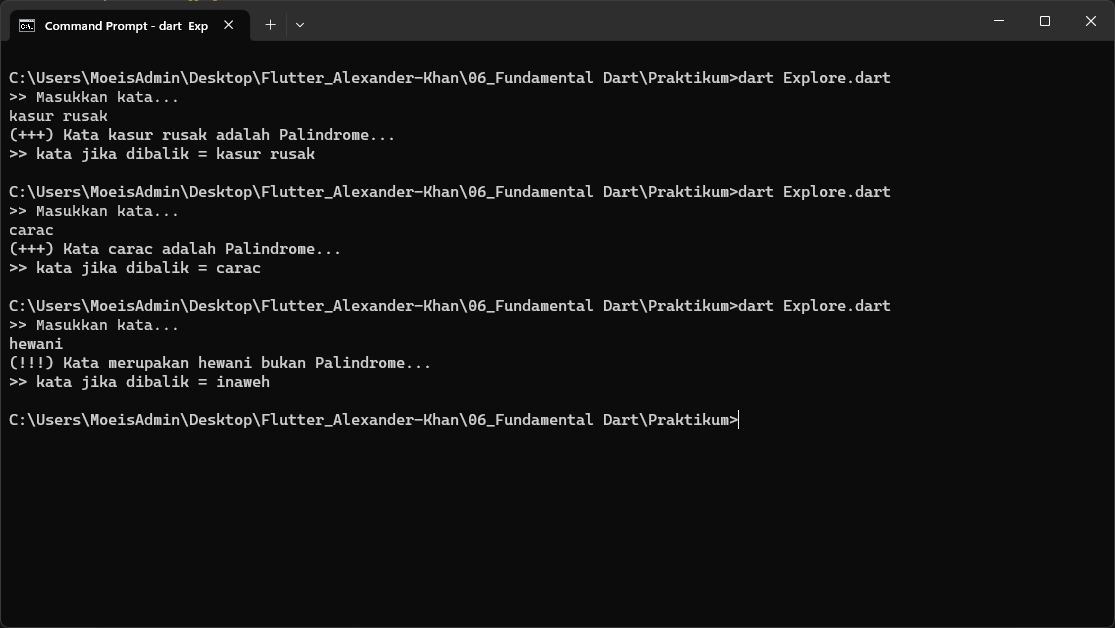
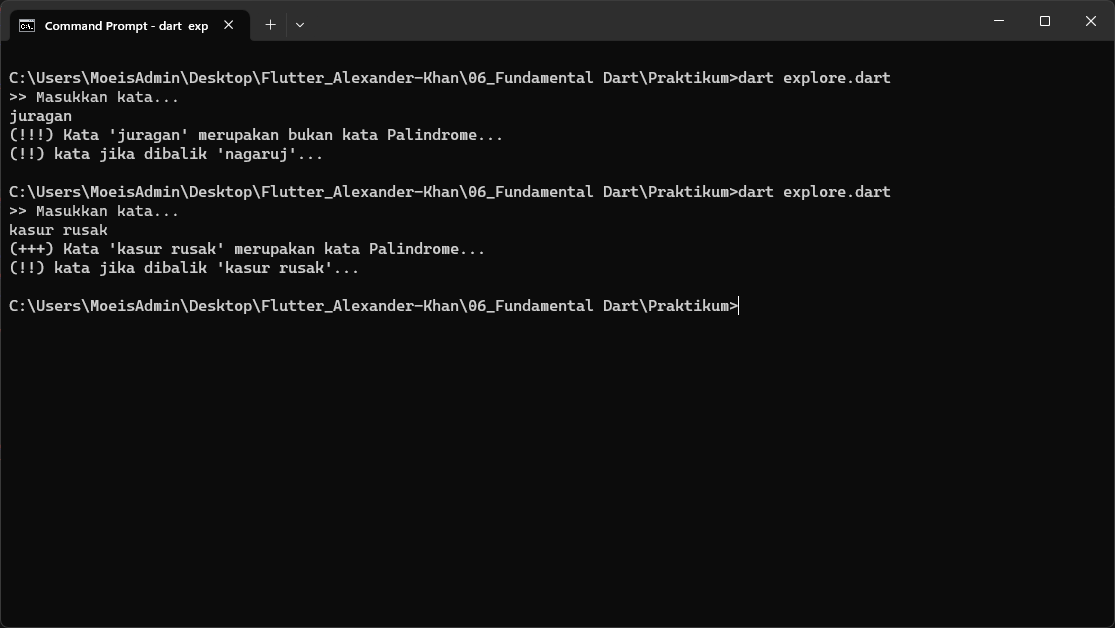
new section

diff --git a/06_Fundamental Dart/Praktikum/Explore.dart b/06_Fundamental Dart/Praktikum/Explore.dart
@@ -7,26 +7,33 @@ void main() {
 
 void palindrome() {
   print(">> Masukkan kata...");
-  var words = stdin.readLineSync();
-  var palindrome = words!.split('').reversed.join('');
+  String? words = stdin.readLineSync();
+  String? palindrome = words!.split('').reversed.join('');
 
   if (words == palindrome) {
-    print("(+++) Kata $words adalah Palindrome...");
+    print("(+++) Kata '$words' merupakan kata Palindrome...");
   } else {
-    print("(!!!) Kata merupakan $words bukan Palindrome...");
+    print("(!!!) Kata '$words' merupakan bukan kata Palindrome...");
   }
 
-  print(">> kata jika dibalik = $palindrome");
+  print("(!!) kata jika dibalik '$palindrome'...");
 }
 
 void factorNumber() {
-  print(">> Masukkan angka...");
+  print(">> Masukkan angka faktor...!!!");
   var number = int.parse(stdin.readLineSync()!);
 
-  print(">> Faktor dari $number adalah...");
+  while (number <= 0) {
+    print("(!!!) Angka tidak boleh negatif atau kosong...");
+    print(">> Masukkan angka faktor...!!!");
+    number = int.parse(stdin.readLineSync()!);
+  }
+
+  print("(O) Faktor dari $number adalah...");
   for (var i = 1; i <= number; i++) {
     if (number % i == 0) {
-      print(i);
+      print("> $i");
     }
   }
+
 }

diff --git a/06_Fundamental Dart/Praktikum/Exercise_2.dart b/06_Fundamental Dart/Praktikum/Exercise_2.dart
@@ -2,19 +2,19 @@ import 'dart:io';
 import 'dart:math';
 
 void main() {
-  // callBack();
-  tubeVolume();
+  callBack();
+  // tubeVolume();
 }
 
 void callBack() {
-  print(">> Masukkan nama Anda \t:... ");
+  print(">> Masukkan nama Lengkap Anda \t\t=...!!! ");
   String? x = stdin.readLineSync();
-  print(">> Masukkan Asal Kota Anda Tinggal \t:... ");
+  print(">> Masukkan Asal Kota Anda Tinggal \t=...!!! ");
   String? y = stdin.readLineSync();
-  print(">> Program Kelas yang sedang Anda Ikutin \t:...");
+  print(">> Program Kelas yang sedang Diikuti \t=...!!!");
   String? z = stdin.readLineSync();
 
-  print("\n(++) Halo, $x Selamat Datang di $y, di kelas program $z");
+  print("\n(++) Halo $x, Selamat Datang di $y, di kelas program $z");
 }
 
 void tubeVolume() {

diff --git a/06_Fundamental Dart/Praktikum/Exercise_1_Static.dart b/06_Fundamental Dart/Praktikum/Exercise_1_Static.dart
@@ -44,7 +44,7 @@ double rectanglePerimeter(double x, double y) {
 double roundArea(double x) {
   double result;
   result = pi * pow(x, 2);
-  result.toDouble();
+  result;
   return result;
 }
 

diff --git a/06_Fundamental Dart/README.md b/06_Fundamental Dart/README.md
@@ -4,5 +4,16 @@
 
 ### Dart
 
-Dart merupakan bahasa pemrograman dengan tujuan yang dirancang untuk membangun aplikasi cepat di berbagai platform dan dikembangkan oleh perusahaan google yang pertama kali muncul pada tahun 2011  untuk menjadi alternatif dari bahasa pemrograman javascript. type safe menjamin konsistensi data tidak ambigu dan null safety, yang memberikan data null atau data kosong dan juga didukung banyak library.
+Dart merupakan bahasa pemrograman dengan tujuan yang dirancang untuk membangun aplikasi cepat di berbagai platform dan dikembangkan oleh perusahaan google yang pertama kali muncul pada tahun 2011 untuk menjadi alternatif dari bahasa pemrograman javascript. Dart ini memiliki "type safe" yang menjamin konsistensi tipe data tidak atau ambigu dan null safety, yang memberikan data null atau data kosong dan juga didukung banyak library.
+
+### Fitur dari Dart
+
+* #### Multi-Platform
+Dart adalah bahasa pemrograman yang Multi-Platform atau platform independen yang berarti dapat dijalankan pada sistem operasi yang berbeda seperti Windows, Linux, Unix dan MacOS, dll.
+
+* #### General Purpose
+Bahasa Dart dapat bersifat Multi-purpose (dengan tujuan umum) yang artinya dapat digunakan dalam mengembangkan berbagai jenis aplikasi dan program.
+
+* #### Multi-Paradigm
+Dart juga dapat mendukung multi-paradigma yang berari pemrograman imperatif, fungsional, reflektif dan berorientasi pada objek.
 

diff --git a/05_Basic Version and Branch Management/README.md b/05_Basic Version and Branch Management/README.md
@@ -8,7 +8,7 @@
 
 ###  Cara Kerja Git
 
-![Staging Area Steps](/5_Basic%20Version%20and%20Branch%20Management/StageArea.png)
+![Staging Area Steps](/05_Basic%20Version%20and%20Branch%20Management/StageArea.png)
 
 git memiliki cara kerja dengan disebut dengan staging area, terdapat 3 yang bekerja dalam local kita, yang pertama terdapat tahap **Working directory**, yaitu sebuah checkout dari satu versi projek. Kumpulan file ini akan ditarik dari database yang sudah di-zip-kan dalam direktori Git. Kedua terdapat **Staging Area**, pada tahap ini umumnya berada pada direktori Git kita, yang menyimpan informasi tentang apa yang akan dicommit  selanjutnya. Terkadang disebut juga sebagai index, tetapi sering disebut sebagai staging area,contohnya menggunakan CLI seperti `git add`. Sehingga seluruh perubahan code tersebut apabila sudah siap ada maka sisanya menggunakan CLI yaitu `git push` untuk mengupload ke git **repository** tujuannya.
 
